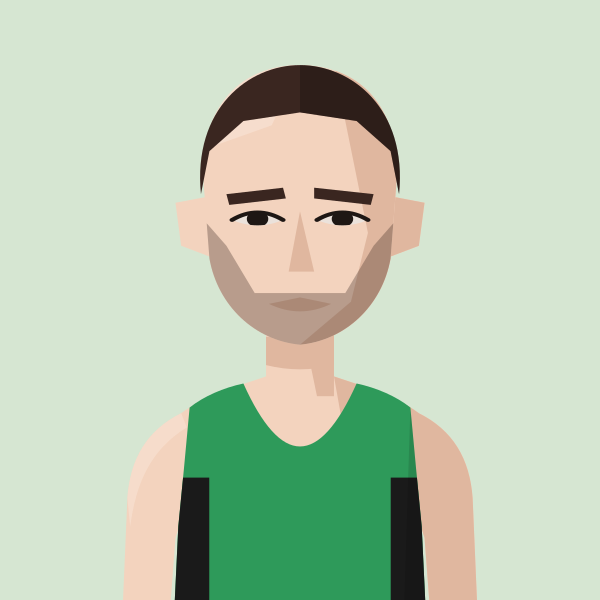
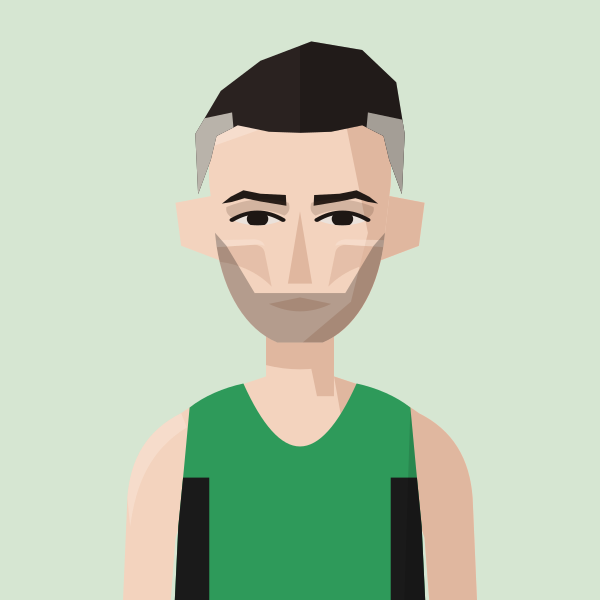
Redraw Tom Foster: lower textured quiff, greying sides, lean face, deep-set eyes
Claude-Session: https://claude.ai/code/session_01MgmDWhFqnSSnP4iBLKXUZC

diff --git a/files/index.html b/files/index.html
@@ -827,7 +827,7 @@ const portraitFile=(name,club)=>{const k=normalizeNameForCompare(name||'').repla
 const portraitClubOf=(name,clubs)=>{for(const c of clubs||[]){if(c&&portraitFile(name,c))return c;}return null;}; /* first of these clubs we have a portrait for */
 // Athlete header figure: superstar portrait if we have one, else a grey runner in the club vest, else the plain vest icon
 // Changes whenever any portrait changes (set by tools/build_og.py), so browsers fetch fresh images instead of old cached ones
-const PORTRAIT_V='5c448d8e';const PORTRAIT_WOMEN='abbey-brooke,abbie-bulbulian,adele-prince,aimee-hargreaves,aisling-ahern,alex-brown,alex-gandee,alex-marginean,alex-miller,alexa-parker,alexandra-barbour,alice-braham,alice-bridger-morales,alice-crane,alice-martin,alice-reed,alice-smith,alison-purnell,alison-thomson,amelia-pettitt,amy-clements,andrea-barber,anika-schwarze-chintapatla,anna-garnier,anna-garnier-hw,anna-sharp,annabel-hobday,annabelle-hadlow,anne-hegvold,annmarie-seymour,ava-mcandie,becky-briggs,bethan-goddard,bethanie-murray,bethany-brown,betsy-griffiths,billie-mcclosky,camilla-barden,caoimhe-nic-fhogartaigh,carolyne-baxter,catherine-bryson,catherine-eastham,catherine-kandie,cathy-ansell,charlotte-griffiths,chloe-beckett,chloe-tighe,chrissie-wellington,claire-grima,clara-pettit,clare-elms,clare-pauzers,dillan-quinn,dorchie-cockerell,eilidh-hide,elinor-skinner,eliza-grant,elizabeth-apsley,elizabeth-stavreski,ella-fennelly,ella-king-powrie,ella-may-hards,ella-newton,ellen-weir,ellie-brown,ellie-freeden,eloise-bull,emilie-arnoux,emily-barrett,emily-bradley,emily-lowery,emily-robbins,emma-gordon,emma-howsham,emma-lord,emma-rowland,estle-viljoen,evie-warren,felicity-cole,felicity-harrison,felicity-hayward,fi-maddocks,fiona-de-mauny,florence-wiggins,gabby-collison,gabriel-reynolds,gemma-newport,genevieve-blanch,georgia-curry,georgie-bruinvels,georgie-fenn,georgie-furze,georgie-grgec,gina-galbraith,grace-leyland,grace-richardson,hannah-edwards,hannah-english,heather-statham,heather-statham-cc,helena-corbin,helena-keenan,holly-nixon,holly-pan,imogen-mackie,imogen-wolsey,iona-cousland,isabel-bradley,isabel-brinsden,isabelle-pickett,isobel-hodder,jennifer-nandi,jennifer-smith,jess-reed,jess-saunders,jess-winfield,jessica-davies,jessica-lowe,jodie-favell,josephine-rhodes,julia-bleasdale,julia-wedmore,juliet-hodder,jurgita-levertaviciute,justine-lynch,karen-fenner,karen-xiang,karina-box,kate-axford,kate-williams,kathy-sharpe,katie-ellen-french,katie-good,katie-snowden,katy-hedgethorne,kitty-shepherd-cross,kristina-popadich,lara-bromilow,lara-mangan,laura-goodson,laura-miles,lauren-major,lea-adamson,lily-newton,lisa-bailey,lisa-thomas,lisa-thomas-hw,lizzie-goldie-scot,louise-cooper,lucy-jones,lucy-macalister,lucy-peters,lydia-blackmore,lydia-gallyer-barnett,maddie-mastrolonardo,maddy-whitman,maeve-kenny,margaret-coogan,martina-conner,mary-james,mary-setyabule,matilde-lomba,megan-gildea,mel-wilkins,mhairi-hall,mimi-corden-lloyd,molly-oconnor,molly-smith,monika-gajek,naomi-lenane,natalie-beadle,natalie-seymour,natasha-lodge,niamh-thompson,nicky-hayes,nicola-cartlidge,nicola-douglas,nikki-sturzaker,olivia-papaioannou,olivia-stillman,orna-mcginley,pamela-mchutchon,patricia-walker,patrizia-gnoato,penny-oliver,rachel-brown,rebecca-barrow,rebekah-edgar,ruby-carter,ruby-whyte-wilding,ruby-woolfe,sally-urquhart,sam-whiting,samantha-munday,sarah-astin,sarah-dewhirst,sarah-grover,sarah-hanley,sarah-holt,sarah-murphy,sarah-palmer,sarah-palmer-ran,sarah-riceman,sarah-young,saron-haileselase,serena-carter,sophie-cowper,sophie-harris,sophie-hicks,sophie-tooley,stacey-ward,steph-hewitt,steph-mccall,steph-mccall-cc,steph-mccall-slh,steph-mitchell,suzanne-swaine,suze-spalding,suzie-harvey,suzy-whatmough,teresa-murphy,tilly-heaton,tilly-heaton-bel,tish-jones,vic-cartwright,vicky-clarke,victoria-barthelmess,victoria-buck,vikki-filsell,zoe-doyle,zoe-macdonald,zuzana-nemeckova';const PORTRAIT_MEN='aaron-wilson,abdulla-elsadig,adam-leane,adrian-major,adrien-royer,alan-black,alan-mead,alex-brecker,alex-bruce-littlewood,alex-gutteridge,alex-harris,alex-howard,alex-janiaud,alex-lee,alex-lennon,alex-mills,alex-milne,alex-morales,alex-robinson,alex-yee,alexander-marks,amittai-ben-israel,andrew-cumine,andrew-green,andrew-penney,andrew-perfect,andrew-simms,andrew-warburton,andrius-jaksevicius,andy-coley-maud,andy-coley-maud-cc,andy-fyfe,andy-north,andy-paton,andy-weir,angus-butler,angus-lamb,anisse-ismaili,arlo-ludewick,arne-dumez,arthur-peel,ashley-goncalves,barnaby-day,barry-collins,barry-sawyer,ben-clarke,ben-coughlan,ben-harding,ben-hurley,ben-ireland,ben-millar,ben-paviour,ben-pearce,ben-racle,ben-revill,ben-reynolds,ben-scott,ben-toomer,benedict-whitby,benjamin-hilson,bernie-ford,bill-kerr,bill-weller,bill-weller-wal,bob-harrison,bob-holt,bob-lunnon,bob-rayman,bob-smith,bradley-courtney-pinn,brandon-dewar,brian-gorman,brian-wilder,caleb-hathaway,callum-stewart,cameron-dockerill,cameron-reilly,carl-delaney,charles-herrington,charlie-dabbs,charlie-dickinson,charlie-eastaugh,charlie-manning,charlie-pickett,charlie-rogers,charlie-sandison,charlie-walker,charlie-wyllie,che-compton,chris-busaileh,chris-busaileh-hhh,chris-greenwood,chris-keavey,chris-moss,chris-steer,chris-threadgold,chris-warren,christian-lee,christopher-parker,clive-gilby,clive-shippen,colin-high,colin-pearson,conall-mcnally,conall-whelan,craig-ruddy,dame-dibaba,dan-cliffe,dan-pettitt,daniel-shaw,daniel-wolff,darren-mead,dave-beard,dave-beaver,dave-glassborow,dave-holt,dave-taylor,david-anderson,david-bowers,david-grima,david-north,david-ogden,david-symons,david-walsh,david-williams,deron-fagan,dick-piotrowski,dimos-evangelidis,dominic-kiralyfi,don-anderson,don-faircloth,don-maclean,doug-maughan,duncan-rimmer,dylan-evans,dylan-mitchard,ed-brewer,ed-catmur,ed-gibson,ed-mallett,eddie-herridge,eddie-jodrell,eddie-rolls,edward-chuck,eoin-brady,eoin-molloy,ethan-mccolgan,falilou-kebe,findlay-dyer,finn-johnson,fintan-pearce,frank-tickner,frank-ward,fred-paget,fred-slemeck,freddie-hessian,garret-lee,gary-ribbons,gary-ribbons-ee,gary-staines,gary-staines-bel,gavin-eccles,geoff-biscoe,geoff-jerwood,geoff-north,george-cotton,george-gathercole,george-jackson,george-loxton,george-mallett,george-ogden,gerry-adams,gerry-north,glen-keegan,gordon-pearce,graham-macky,harrison-hayman,harry-guttridge,hector-revill,henry-hart,henry-silverstein,hugo-hewitt,huw-lobb,ian-acreman,ian-crowe-wright,ian-ellwood,ian-harkness,indy-barnes,isaac-lutaya,isaac-parker,jack-brotchie,jack-dickson,jack-dormer,jack-hampshire,jack-harrison,jack-hobden,jack-kavanagh,jack-millar,jack-ramm,jack-woods,jacob-brockmann,jake-simmonds,james-bartram,james-blackwood,james-bowler,james-estall,james-ewing,james-fox,james-hancock,james-harvey,james-hoad,james-kelly,james-mcmullan,james-murray,james-nutt,james-preston,james-roberts,james-stockings,james-ward,james-wootton,jamie-crowe,jamie-parkinson,jared-martin,jean-paul-wright,jeff-cunningham,jeremy-dempsey,jermaine-mays,jerry-watson,jim-allchin,jim-rimmer,joe-english,joe-hartley,john-baker,john-bicourt,john-bromley,john-davies,john-dear,john-foss,john-foxall,john-gilbert,john-gladwin,john-hutchins,john-kendall,john-kimaiyo,john-lee,john-lethbridge,john-mather,john-moore,john-roberts,john-sanderson,john-stow,john-sullivan,john-thresher,jon-hobbs,jon-pepper,jon-pepper-slh,jon-phillips,jon-solly,jonathan-cocker,jonathan-collier,jonathan-cornish,jonathan-ratcliffe,jonathan-tipper,jonny-neville,jonny-scott,jordan-weaver,josh-mitchell,josh-snow,josh-trigwell,jules-gevers,junior-galley,justin-chaston,justin-reid,kassa-tadesse,keith-newton,kevin-nash,kevin-quinn,kevin-sturman,kieran-barnes,kieran-white,knut-hegvold,knut-hegvold-bel,larry-ryan,lawrence-avery,lee-lintern,lewis-lloyd,liam-burthem,lionel-mann,lloyd-kempson,luke-caldwell,mack-downie,malachi-byansi,marcello-bizio,marcelo-fortes,marco-mazzotta,mark-anderson,mark-miles,mark-sinclair,mark-tennyson,mark-waller,martin-dent,martin-lake,martin-lewington,martin-shore,mathew-speed,matt-chaston,matt-jones,matt-wood,matthew-edgar,matthew-houchell,matthew-thomas,matthew-varley,max-bloor,max-heyden,max-milarvie,max-nicholls,michael-baker,michael-mccarthy,mick-woods,mike-beevor,mike-boyle,mike-cummings,mike-farmery,mike-fuller,mike-hayes,mike-kortenray,mike-nouch,mohammed-ismail,monty-hudson,morgan-roberts,nathan-visick,neil-chisholm,neil-phillips,neil-speaight,neil-wilson,nic-lukies,nick-acfield,nick-altmann,nick-bester,nick-bester-hhh,nick-buckle,nick-bundle,nick-goolab,nick-lightfoot,nick-morris,nick-torry,noah-fernandez,norman-stairs,oli-carrington,oliver-carrington,oliver-fox,oliver-reynolds,oliver-young,ollie-foote,ollie-garrod,olly-buck,owen-hind,paddy-roddy,pancho-panchev,paskar-owor,pat-newell,patrick-mcdougall,paul-calver,paul-cheetham,paul-freary,paul-magner,paul-pollock,paul-sanderson,paul-sanderson-wok,pete-carton,pete-gardner,peter-clarke,peter-giles,peter-giles-thh,peter-lighting,phil-carstairs,phil-sanders,phil-sesemann,phil-swinburn,phil-wicks,phil-woodford-smith,raj-paranandi,ralph-street,ranjit-bhatia,ray-foley,reece-edwards,rhys-boorman,rian-mccawley,richard-ashe,richard-giles,richard-henderson,richard-langley,richard-mcdowell,richard-ollington,richard-partridge,richard-sun,richard-ward,rob-armstrong,rob-kelly,rob-tuer,robert-elphick,robert-laing,robert-norville,robert-peacock,robert-sesemann,robin-boon,robin-hudson,roger-alsop,roger-alsop-bel,roger-hackney,ron-clark,ron-linstead,ronan-tanguy,rory-mcmahon,rory-orsborn,ross-braden,ross-christie,rowan-board,rowan-crichton,russell-dessaix-chin,ryan-hickey,ryan-mccallister,sam-bramwell,sam-charlton,sam-gebreselassie,sam-haughian,sam-peters,sam-sommerville,sam-tyas,samuel-dames,samuel-wilcock,sean-cordon,sebastian-anthony,simon-baines,simon-coombes,simon-coppard,simon-fairbrother,simon-holmes,simon-rayner,simon-rayner-hw,simon-wade,simon-wade-hhh,simon-waterhouse,simon-williams,simon-wurr,sonny-nicoll,spencer-barden,stephen-mcleod,stephen-sharp,steve-gardner,steve-jones,steve-smythe,steve-smythe-hhh,stuart-beaney,stuart-major,stuart-major-thh,stuart-mccallum,stuart-paton,terry-booth,thomas-dugre,thomas-gandee,thomas-gardner,thomas-renshaw,tim-alexander,tim-eglen,tim-lawrence,tim-watson,toby-cooke,toby-fletcher,tom-austin,tom-cheetham,tom-conlon,tom-davies,tom-gifford,tom-higgs,tom-jervis,tom-lole,tom-south,tom-thornley,tommy-taylor,tony-binda,tony-fairclough,tony-harran,trevor-hart,valdis-pauzers,valentin-rigori,vic-maughan,wayne-oxborough,will-cockerell,will-lewis,will-marshall,will-scott,will-stockley,william-gardner,yacin-yusuf,zach-nolan';
+const PORTRAIT_V='976057e5';const PORTRAIT_WOMEN='abbey-brooke,abbie-bulbulian,adele-prince,aimee-hargreaves,aisling-ahern,alex-brown,alex-gandee,alex-marginean,alex-miller,alexa-parker,alexandra-barbour,alice-braham,alice-bridger-morales,alice-crane,alice-martin,alice-reed,alice-smith,alison-purnell,alison-thomson,amelia-pettitt,amy-clements,andrea-barber,anika-schwarze-chintapatla,anna-garnier,anna-garnier-hw,anna-sharp,annabel-hobday,annabelle-hadlow,anne-hegvold,annmarie-seymour,ava-mcandie,becky-briggs,bethan-goddard,bethanie-murray,bethany-brown,betsy-griffiths,billie-mcclosky,camilla-barden,caoimhe-nic-fhogartaigh,carolyne-baxter,catherine-bryson,catherine-eastham,catherine-kandie,cathy-ansell,charlotte-griffiths,chloe-beckett,chloe-tighe,chrissie-wellington,claire-grima,clara-pettit,clare-elms,clare-pauzers,dillan-quinn,dorchie-cockerell,eilidh-hide,elinor-skinner,eliza-grant,elizabeth-apsley,elizabeth-stavreski,ella-fennelly,ella-king-powrie,ella-may-hards,ella-newton,ellen-weir,ellie-brown,ellie-freeden,eloise-bull,emilie-arnoux,emily-barrett,emily-bradley,emily-lowery,emily-robbins,emma-gordon,emma-howsham,emma-lord,emma-rowland,estle-viljoen,evie-warren,felicity-cole,felicity-harrison,felicity-hayward,fi-maddocks,fiona-de-mauny,florence-wiggins,gabby-collison,gabriel-reynolds,gemma-newport,genevieve-blanch,georgia-curry,georgie-bruinvels,georgie-fenn,georgie-furze,georgie-grgec,gina-galbraith,grace-leyland,grace-richardson,hannah-edwards,hannah-english,heather-statham,heather-statham-cc,helena-corbin,helena-keenan,holly-nixon,holly-pan,imogen-mackie,imogen-wolsey,iona-cousland,isabel-bradley,isabel-brinsden,isabelle-pickett,isobel-hodder,jennifer-nandi,jennifer-smith,jess-reed,jess-saunders,jess-winfield,jessica-davies,jessica-lowe,jodie-favell,josephine-rhodes,julia-bleasdale,julia-wedmore,juliet-hodder,jurgita-levertaviciute,justine-lynch,karen-fenner,karen-xiang,karina-box,kate-axford,kate-williams,kathy-sharpe,katie-ellen-french,katie-good,katie-snowden,katy-hedgethorne,kitty-shepherd-cross,kristina-popadich,lara-bromilow,lara-mangan,laura-goodson,laura-miles,lauren-major,lea-adamson,lily-newton,lisa-bailey,lisa-thomas,lisa-thomas-hw,lizzie-goldie-scot,louise-cooper,lucy-jones,lucy-macalister,lucy-peters,lydia-blackmore,lydia-gallyer-barnett,maddie-mastrolonardo,maddy-whitman,maeve-kenny,margaret-coogan,martina-conner,mary-james,mary-setyabule,matilde-lomba,megan-gildea,mel-wilkins,mhairi-hall,mimi-corden-lloyd,molly-oconnor,molly-smith,monika-gajek,naomi-lenane,natalie-beadle,natalie-seymour,natasha-lodge,niamh-thompson,nicky-hayes,nicola-cartlidge,nicola-douglas,nikki-sturzaker,olivia-papaioannou,olivia-stillman,orna-mcginley,pamela-mchutchon,patricia-walker,patrizia-gnoato,penny-oliver,rachel-brown,rebecca-barrow,rebekah-edgar,ruby-carter,ruby-whyte-wilding,ruby-woolfe,sally-urquhart,sam-whiting,samantha-munday,sarah-astin,sarah-dewhirst,sarah-grover,sarah-hanley,sarah-holt,sarah-murphy,sarah-palmer,sarah-palmer-ran,sarah-riceman,sarah-young,saron-haileselase,serena-carter,sophie-cowper,sophie-harris,sophie-hicks,sophie-tooley,stacey-ward,steph-hewitt,steph-mccall,steph-mccall-cc,steph-mccall-slh,steph-mitchell,suzanne-swaine,suze-spalding,suzie-harvey,suzy-whatmough,teresa-murphy,tilly-heaton,tilly-heaton-bel,tish-jones,vic-cartwright,vicky-clarke,victoria-barthelmess,victoria-buck,vikki-filsell,zoe-doyle,zoe-macdonald,zuzana-nemeckova';const PORTRAIT_MEN='aaron-wilson,abdulla-elsadig,adam-leane,adrian-major,adrien-royer,alan-black,alan-mead,alex-brecker,alex-bruce-littlewood,alex-gutteridge,alex-harris,alex-howard,alex-janiaud,alex-lee,alex-lennon,alex-mills,alex-milne,alex-morales,alex-robinson,alex-yee,alexander-marks,amittai-ben-israel,andrew-cumine,andrew-green,andrew-penney,andrew-perfect,andrew-simms,andrew-warburton,andrius-jaksevicius,andy-coley-maud,andy-coley-maud-cc,andy-fyfe,andy-north,andy-paton,andy-weir,angus-butler,angus-lamb,anisse-ismaili,arlo-ludewick,arne-dumez,arthur-peel,ashley-goncalves,barnaby-day,barry-collins,barry-sawyer,ben-clarke,ben-coughlan,ben-harding,ben-hurley,ben-ireland,ben-millar,ben-paviour,ben-pearce,ben-racle,ben-revill,ben-reynolds,ben-scott,ben-toomer,benedict-whitby,benjamin-hilson,bernie-ford,bill-kerr,bill-weller,bill-weller-wal,bob-harrison,bob-holt,bob-lunnon,bob-rayman,bob-smith,bradley-courtney-pinn,brandon-dewar,brian-gorman,brian-wilder,caleb-hathaway,callum-stewart,cameron-dockerill,cameron-reilly,carl-delaney,charles-herrington,charlie-dabbs,charlie-dickinson,charlie-eastaugh,charlie-manning,charlie-pickett,charlie-rogers,charlie-sandison,charlie-walker,charlie-wyllie,che-compton,chris-busaileh,chris-busaileh-hhh,chris-greenwood,chris-keavey,chris-moss,chris-steer,chris-threadgold,chris-warren,christian-lee,christopher-parker,clive-gilby,clive-shippen,colin-high,colin-pearson,conall-mcnally,conall-whelan,craig-ruddy,dame-dibaba,dan-cliffe,dan-pettitt,daniel-shaw,daniel-wolff,darren-mead,dave-beard,dave-beaver,dave-glassborow,dave-holt,dave-taylor,david-anderson,david-bowers,david-grima,david-north,david-ogden,david-symons,david-walsh,david-williams,deron-fagan,dick-piotrowski,dimos-evangelidis,dominic-kiralyfi,don-anderson,don-faircloth,don-maclean,doug-maughan,duncan-rimmer,dylan-evans,dylan-mitchard,ed-brewer,ed-catmur,ed-gibson,ed-mallett,eddie-herridge,eddie-jodrell,eddie-rolls,edward-chuck,eoin-brady,eoin-molloy,ethan-mccolgan,falilou-kebe,findlay-dyer,finn-johnson,fintan-pearce,frank-tickner,frank-ward,fred-paget,fred-slemeck,freddie-hessian,garret-lee,gary-ribbons,gary-ribbons-ee,gary-staines,gary-staines-bel,gavin-eccles,geoff-biscoe,geoff-jerwood,geoff-north,george-cotton,george-gathercole,george-jackson,george-loxton,george-mallett,george-ogden,gerry-adams,gerry-north,glen-keegan,gordon-pearce,graham-macky,harrison-hayman,harry-guttridge,hector-revill,henry-hart,henry-silverstein,hugo-hewitt,huw-lobb,ian-acreman,ian-crowe-wright,ian-ellwood,ian-harkness,indy-barnes,isaac-lutaya,isaac-parker,jack-brotchie,jack-dickson,jack-dormer,jack-hampshire,jack-harrison,jack-hobden,jack-kavanagh,jack-millar,jack-ramm,jack-woods,jacob-brockmann,jake-simmonds,james-bartram,james-blackwood,james-bowler,james-estall,james-ewing,james-fox,james-hancock,james-harvey,james-hoad,james-kelly,james-mcmullan,james-murray,james-nutt,james-preston,james-roberts,james-stockings,james-ward,james-wootton,jamie-crowe,jamie-parkinson,jared-martin,jean-paul-wright,jeff-cunningham,jeremy-dempsey,jermaine-mays,jerry-watson,jim-allchin,jim-rimmer,joe-english,joe-hartley,john-baker,john-bicourt,john-bromley,john-davies,john-dear,john-foss,john-foxall,john-gilbert,john-gladwin,john-hutchins,john-kendall,john-kimaiyo,john-lee,john-lethbridge,john-mather,john-moore,john-roberts,john-sanderson,john-stow,john-sullivan,john-thresher,jon-hobbs,jon-pepper,jon-pepper-slh,jon-phillips,jon-solly,jonathan-cocker,jonathan-collier,jonathan-cornish,jonathan-ratcliffe,jonathan-tipper,jonny-neville,jonny-scott,jordan-weaver,josh-mitchell,josh-snow,josh-trigwell,jules-gevers,junior-galley,justin-chaston,justin-reid,kassa-tadesse,keith-newton,kevin-nash,kevin-quinn,kevin-sturman,kieran-barnes,kieran-white,knut-hegvold,knut-hegvold-bel,larry-ryan,lawrence-avery,lee-lintern,lewis-lloyd,liam-burthem,lionel-mann,lloyd-kempson,luke-caldwell,mack-downie,malachi-byansi,marcello-bizio,marcelo-fortes,marco-mazzotta,mark-anderson,mark-miles,mark-sinclair,mark-tennyson,mark-waller,martin-dent,martin-lake,martin-lewington,martin-shore,mathew-speed,matt-chaston,matt-jones,matt-wood,matthew-edgar,matthew-houchell,matthew-thomas,matthew-varley,max-bloor,max-heyden,max-milarvie,max-nicholls,michael-baker,michael-mccarthy,mick-woods,mike-beevor,mike-boyle,mike-cummings,mike-farmery,mike-fuller,mike-hayes,mike-kortenray,mike-nouch,mohammed-ismail,monty-hudson,morgan-roberts,nathan-visick,neil-chisholm,neil-phillips,neil-speaight,neil-wilson,nic-lukies,nick-acfield,nick-altmann,nick-bester,nick-bester-hhh,nick-buckle,nick-bundle,nick-goolab,nick-lightfoot,nick-morris,nick-torry,noah-fernandez,norman-stairs,oli-carrington,oliver-carrington,oliver-fox,oliver-reynolds,oliver-young,ollie-foote,ollie-garrod,olly-buck,owen-hind,paddy-roddy,pancho-panchev,paskar-owor,pat-newell,patrick-mcdougall,paul-calver,paul-cheetham,paul-freary,paul-magner,paul-pollock,paul-sanderson,paul-sanderson-wok,pete-carton,pete-gardner,peter-clarke,peter-giles,peter-giles-thh,peter-lighting,phil-carstairs,phil-sanders,phil-sesemann,phil-swinburn,phil-wicks,phil-woodford-smith,raj-paranandi,ralph-street,ranjit-bhatia,ray-foley,reece-edwards,rhys-boorman,rian-mccawley,richard-ashe,richard-giles,richard-henderson,richard-langley,richard-mcdowell,richard-ollington,richard-partridge,richard-sun,richard-ward,rob-armstrong,rob-kelly,rob-tuer,robert-elphick,robert-laing,robert-norville,robert-peacock,robert-sesemann,robin-boon,robin-hudson,roger-alsop,roger-alsop-bel,roger-hackney,ron-clark,ron-linstead,ronan-tanguy,rory-mcmahon,rory-orsborn,ross-braden,ross-christie,rowan-board,rowan-crichton,russell-dessaix-chin,ryan-hickey,ryan-mccallister,sam-bramwell,sam-charlton,sam-gebreselassie,sam-haughian,sam-peters,sam-sommerville,sam-tyas,samuel-dames,samuel-wilcock,sean-cordon,sebastian-anthony,simon-baines,simon-coombes,simon-coppard,simon-fairbrother,simon-holmes,simon-rayner,simon-rayner-hw,simon-wade,simon-wade-hhh,simon-waterhouse,simon-williams,simon-wurr,sonny-nicoll,spencer-barden,stephen-mcleod,stephen-sharp,steve-gardner,steve-jones,steve-smythe,steve-smythe-hhh,stuart-beaney,stuart-major,stuart-major-thh,stuart-mccallum,stuart-paton,terry-booth,thomas-dugre,thomas-gandee,thomas-gardner,thomas-renshaw,tim-alexander,tim-eglen,tim-lawrence,tim-watson,toby-cooke,toby-fletcher,tom-austin,tom-cheetham,tom-conlon,tom-davies,tom-gifford,tom-higgs,tom-jervis,tom-lole,tom-south,tom-thornley,tommy-taylor,tony-binda,tony-fairclough,tony-harran,trevor-hart,valdis-pauzers,valentin-rigori,vic-maughan,wayne-oxborough,will-cockerell,will-lewis,will-marshall,will-scott,will-stockley,william-gardner,yacin-yusuf,zach-nolan';
 // Runners whose dog pops up on their own profile page (a -dog.svg version of their portrait)
 const PROFILE_DOGS=new Set(['john-sanderson','penny-oliver','james-hancock','angus-butler']);
 const AthletePortrait=({name,club,w,fill,onClick,blink})=>{const[failed,setFailed]=useState(false);const file=portraitFile(name,club);const src0=file?`/portraits/athletes/${file}.svg?v=${PORTRAIT_V}`:PORTRAIT_CLUBS.has(club)?`/portraits/clubs/${club.replace(/\//g,'').replace(/&/g,'and')}.svg?v=${PORTRAIT_V}`:null;const blinkSrc=useBlinkSrc(file?(PROFILE_DOGS.has(file)?`/portraits/athletes/${file}-dog.svg?v=${PORTRAIT_V}`:src0):null,!!blink);const src=blinkSrc||src0;if(!src||failed)return<div onClick={onClick} className={onClick?'cursor-pointer':''}><ClubShield club={club} size={w}/></div>;const h=Math.round(w*148/126),ih=Math.round(w*1.4);if(fill)return<div onClick={onClick} className="cursor-pointer" style={{alignSelf:'stretch',minHeight:h,aspectRatio:'126 / 148',flexShrink:0,position:'relative',borderRadius:4,overflow:'hidden'}}><img src={src} alt={file?`Portrait of ${name.replace(/\s*\([^)]*\)$/,'')}`:`Runner in ${CLUBS[club]?.name||club} vest`} style={{position:'absolute',top:0,left:0,display:'block',width:'100%',height:'auto'}} onError={()=>setFailed(true)}/></div>;return<div style={{width:w,height:h,borderRadius:4,overflow:'hidden',flexShrink:0}}><img src={src} alt={file?`Portrait of ${name.replace(/\s*\([^)]*\)$/,'')}`:`Runner in ${CLUBS[club]?.name||club} vest`} width={w} height={ih} style={{display:'block',width:w,height:ih}} onError={()=>setFailed(true)}/></div>;};

diff --git a/tools/gen_portraits.py b/tools/gen_portraits.py
@@ -1871,4 +1871,8 @@ def chindef(svg, skin=1, tag="f"):
 # Alex Howard (THH), redrawn Oct 2026: very dark hair, bushy ragged sides over the ears, thinning floppy top with a deep temple recede,
 # long face with a squarish jaw and long strong chin, definition under the mouth, full curved brows over deep-set eyes, high cheekbones, long nose
 save("alex-howard", chindef(longchin(cheekbones(sockets(nose(archbrows(eyes(figure("THH", skin=1, hair="floppythin", hair_colour="#2A1D17", brow_colour="#1E1612", jaw="broadchin"), None, -0.5)), 1.0, 1.25), depth=1.4), depth=1.3))))
+HAIR["quifflow"] = '<path d="M64,100 L63,72 L72,52 L86,38 L104,29 L122,33 L134,48 L137,72 L136,100 L131.5,84 L129.5,73 L122,68 L111,71 L100,71.5 L89,71 L78,68 L70.5,73 L68.5,84 Z"/>'  # short textured quiff with only a slight recede and a lower forehead (Tom Foster)
+# Tom Foster (G&G), redrawn Oct 2026: short dark textured quiff with a slight recede and greying sides, long lean face, high cheekbones,
+# short dark stubble, heavy straight brows set low over deep-set eyes, long straight nose
+save("foster", cheekbones(sockets(nose(angledbrows(brows(eyes(figure("G&G", skin=1, hair="quifflow", hair_colour="#2A2220", brow_colour="#221A16", facial="stubble", facial_colour="#2E2724", greying="sides", jaw="long"), None, 0), 0, 0, 4), 1.2), 0.95, 1.2), depth=1.2), depth=1.0))
 export_site()
